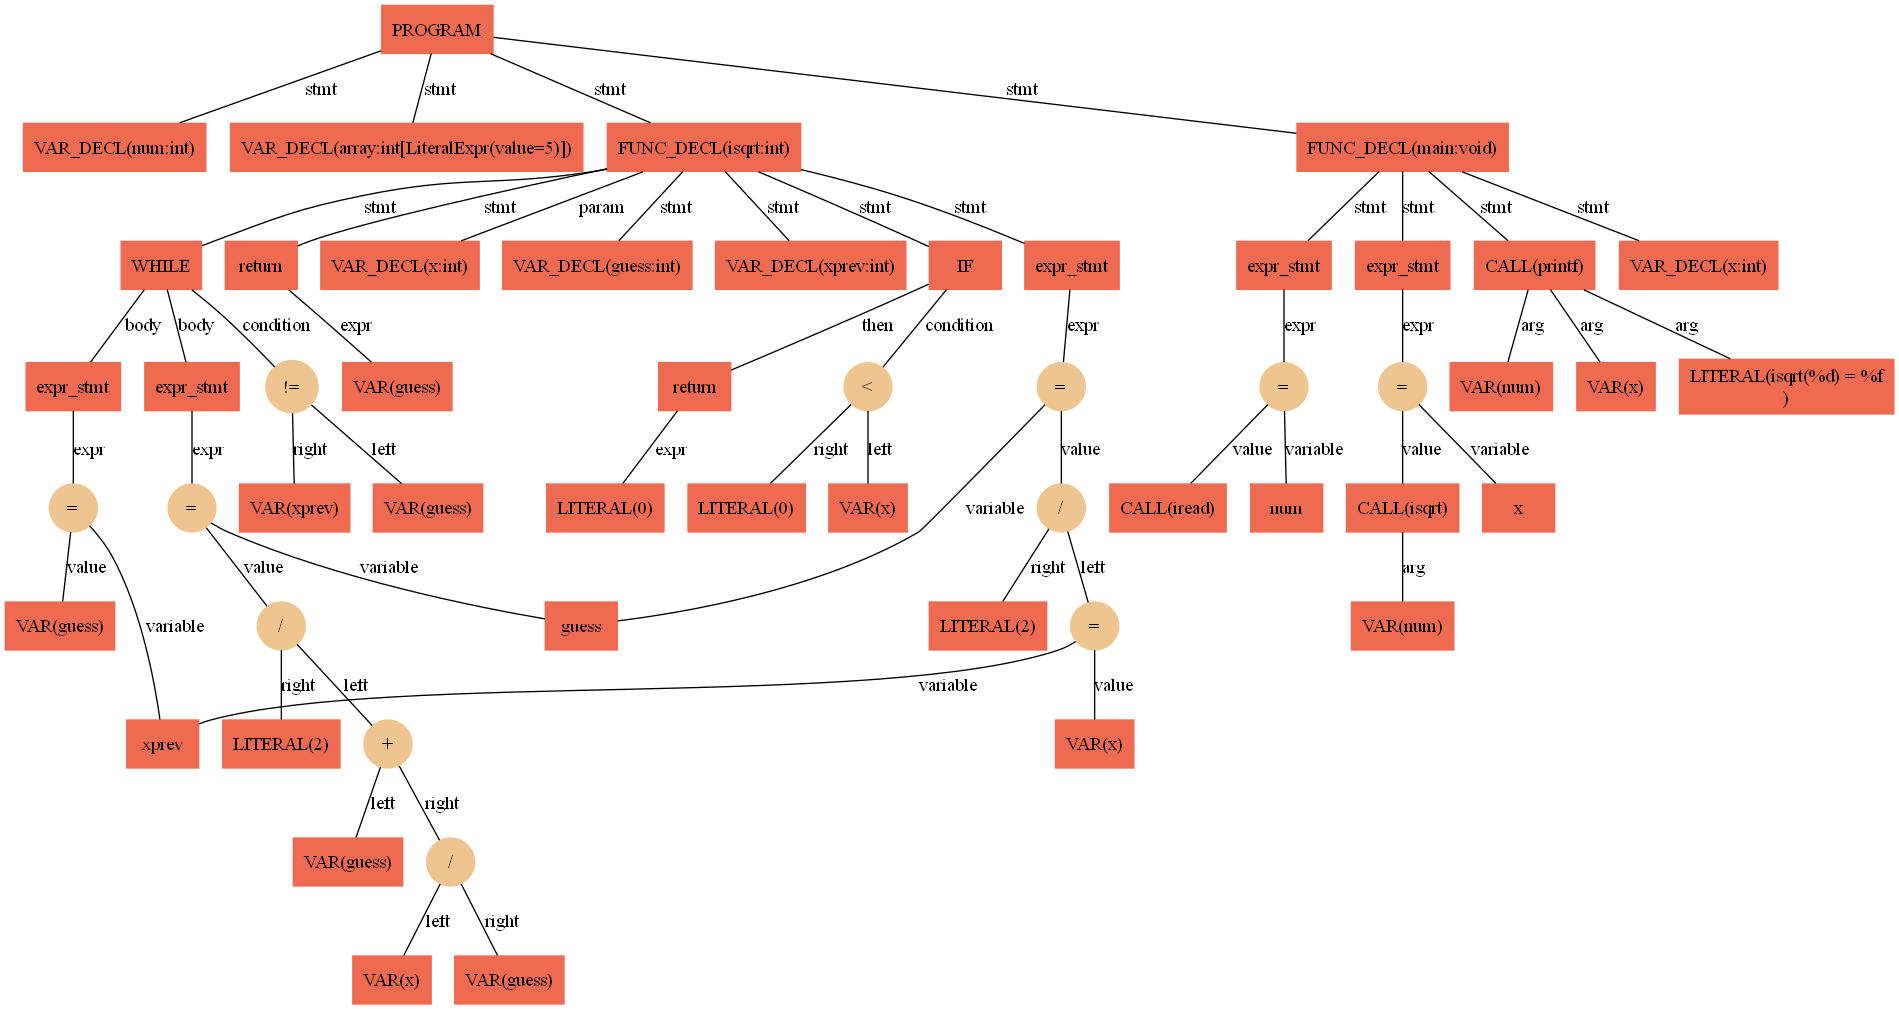
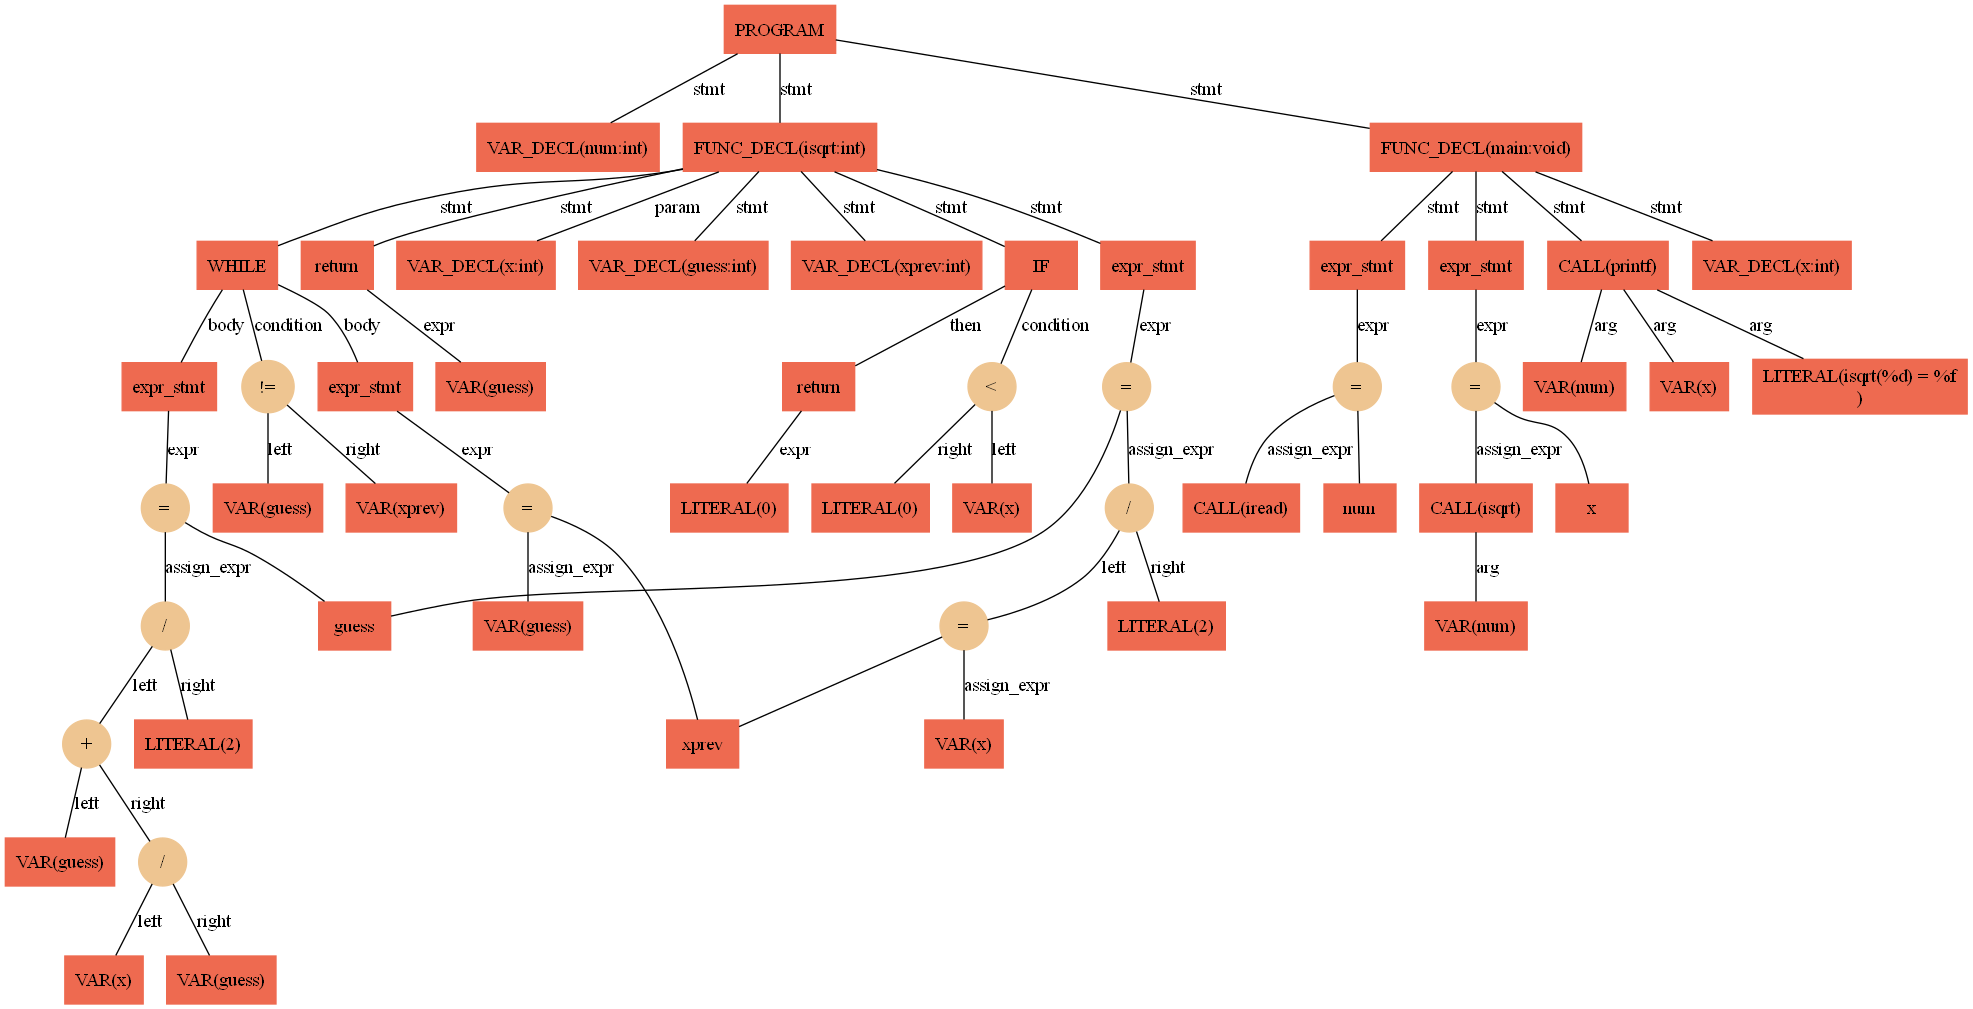
cambios

diff --git a/Python/Compiladores/Compilador_Minic++/MiniCppCaster.py b/Python/Compiladores/Compilador_Minic++/MiniCppCaster.py
@@ -114,7 +114,7 @@ class CallExpr(Expression):
 
 @dataclass
 class VarAssignmentExpr(Expression):
-    ident : str
+    ident : Expression
     expr  : Expression
 
 @dataclass
@@ -221,6 +221,19 @@ class MakeDot(Visitor):
 
     # Metodo
     def visit(self, n: Program):
+        '''
+        1.
+            - Crear tabla de simbolos global   
+            - Agregar todas las funciones o variables incorporadas al lenguaje:
+                scanf/printf
+            - Despues de recorer el AST validar que exista una funcon main
+        2.
+            Guardar la tabla de simbolos actual
+        
+        3. 
+            FuncDeclStmt
+            -Agregar el nombre de la funcion a la TS actual
+        '''
         name = self.name()  # Crea un nombre para el nodo del programa
         self.dot.node(name, label='PROGRAM')  # Agrega el nodo al gráfico
         for stmt in n.stmts:  # Itera sobre las declaraciones en el programa
@@ -233,10 +246,81 @@ class MakeDot(Visitor):
         self.dot.node(name, label=f'CONST({n.value})')
         return name
 
+    # Método para visitar declaraciones de clases
+    def visit(self, n: ClassDecl):
+        name = self.name()
+        self.dot.node(name, label=f'CLASS({n.ident})')
+        for stmt in n.var_decl_list:
+            self.dot.edge(name, stmt.accept(self), label='var_decl')
+        return name
+
+    # Método para visitar declaraciones de funciones
+    def visit(self, n: FuncDeclStmt):
+        name = self.name()
+        self.dot.node(name, label=f'FUNC_DECL({n.ident}:{n.return_type})')
+        
+        for param in n.params:
+            self.dot.edge(name, param.accept(self), label='param')
+        for stmt in n.compound_stmt:
+            self.dot.edge(name, stmt.accept(self), label='stmt')
+        return name
+    
+    # Método para visitar declaraciones de variables
+    def visit(self, n: VarDeclStmt):
+        name = self.name()
+        if n.size:
+            self.dot.node(name, label=f'VAR_DECL({n.ident}:{n.type_spec}[{n.size}])')
+        else:
+            self.dot.node(name, label=f'VAR_DECL({n.ident}:{n.type_spec})')
+            if n.expr:
+                self.dot.edge(name, n.expr.accept(self), label='init')
+        return name    
+    
     # Método para visitar variables
     def visit(self, n: VarExpr):
         name = self.name()
         self.dot.node(name, label=f'VAR({n.ident})')
+        return name
+
+    # Método para visitar asignaciones de variables
+    def visit(self, n: VarAssignmentExpr):
+        name = self.name()
+        self.dot.node(name, label='=', shape='circle', color='burlywood2')
+        self.dot.edge(name, n.ident.accept(self))
+        self.dot.edge(name, n.expr.accept(self), label='assign_expr')
+        return name
+
+
+    # Método para visitar un IfStmt
+    def visit(self, n: IfStmt):
+        name = self.name()
+        self.dot.node(name, label='IF')
+        self.dot.edge(name, n.expr.accept(self), label='condition')
+        self.dot.edge(name, n.then.accept(self), label='then')
+        if n.else_:
+            self.dot.edge(name, n.else_.accept(self), label='else')
+        return name
+
+    # Método para visitar ciclos While
+    def visit(self, n: WhileStmt):
+        name = self.name()
+        self.dot.node(name, label='WHILE')
+        for body_stmt in n.then:  # Asumiendo que stmt.then es una lista de declaraciones
+            self.dot.edge(name, body_stmt.accept(self), label='body')
+        self.dot.edge(name, n.expr.accept(self), label='condition')
+        return name
+
+    # Método para visitar expresiones de entrada/salida
+    def visit(self, n: IOFuncExpr):
+        name = self.name()
+        if n.ident == 'printf':
+            self.dot.node(name, label='PRINTF')
+        elif n.ident == 'scanf':
+            self.dot.node(name, label='SCANF')
+        
+        for arg in n.args:
+            self.dot.edge(name, arg.accept(self), label='arg')
+        
         return name
 
     # Método para visitar llamadas a funciones
@@ -255,81 +339,11 @@ class MakeDot(Visitor):
         self.dot.edge(name, n.right.accept(self), label='right')
         return name
 
-    # Método para visitar declaraciones de variables
-    def visit(self, n: VarDeclStmt):
-        name = self.name()
-        if n.size:
-            self.dot.node(name, label=f'VAR_DECL({n.ident}:{n.type_spec}[{n.size}])')
-        else:
-            self.dot.node(name, label=f'VAR_DECL({n.ident}:{n.type_spec})')
-            if n.expr:
-                self.dot.edge(name, n.expr.accept(self), label='init')
-        return name
-        
-
-    # Método para visitar declaraciones de funciones
-    def visit(self, n: FuncDeclStmt):
-        name = self.name()
-        self.dot.node(name, label=f'FUNC_DECL({n.ident}:{n.return_type})')
-        for param in n.params:
-            self.dot.edge(name, param.accept(self), label='param')
-        for stmt in n.compound_stmt:
-            self.dot.edge(name, stmt.accept(self), label='stmt')
-        return name
-
-    # Método para visitar declaraciones de clases
-    def visit(self, n: ClassDecl):
-        name = self.name()
-        self.dot.node(name, label=f'CLASS({n.ident})')
-        for stmt in n.var_decl_list:
-            self.dot.edge(name, stmt.accept(self), label='var_decl')
-        return name
-
     # Método para visitar expresiones unarias
     def visit(self, n: UnaryOpExpr):
         name = self.name()
         self.dot.node(name, label=f'{n.opr}', shape='circle', color='burlywood2')
         self.dot.edge(name, n.expr.accept(self), label='expr')
-        return name
-
-    # Método para visitar asignaciones de variables
-    def visit(self, n: VarAssignmentExpr):
-        name = self.name()
-        self.dot.node(name, label='=', shape='circle', color='burlywood2')
-        self.dot.edge(name, n.ident, label='variable')
-        self.dot.edge(name, n.expr.accept(self), label='value')
-        return name
-
-    # Método para visitar un IfStmt
-    def visit(self, n: IfStmt):
-        name = self.name()
-        self.dot.node(name, label='IF')
-        self.dot.edge(name, n.expr.accept(self), label='condition')
-        self.dot.edge(name, n.then.accept(self), label='then')
-        if n.else_:
-            self.dot.edge(name, n.else_.accept(self), label='else')
-        return name
-
-    # Método para visitar ciclos While
-    def visit(self, n: WhileStmt):
-        name = self.name()
-        self.dot.node(name, label='WHILE')
-        self.dot.edge(name, n.expr.accept(self), label='condition')
-        for body_stmt in n.then:  # Asumiendo que stmt.then es una lista de declaraciones
-            self.dot.edge(name, body_stmt.accept(self), label='body')
-        return name
-
-    # Método para visitar expresiones de entrada/salida
-    def visit(self, n: IOFuncExpr):
-        name = self.name()
-        if n.ident == 'printf':
-            self.dot.node(name, label='PRINTF')
-        elif n.ident == 'scanf':
-            self.dot.node(name, label='SCANF')
-        
-        for arg in n.args:
-            self.dot.edge(name, arg.accept(self), label='arg')
-        
         return name
 
     # Método para visitar expresiones literales
@@ -347,6 +361,6 @@ class MakeDot(Visitor):
 
     def visit(self, n: ExprStmt):
         name = f'expr_stmt_{id(n.expr)}'
-        self.dot.node(name, 'expr_stmt')  # Asigna un nombre a tu nodo
+        self.dot.node(name, 'expr_stmt') 
         self.dot.edge(name, n.expr.accept(self), label='expr')  # Suponiendo que `stmt.expr` es una expresión válida
         return name

diff --git a/Python/Compiladores/Compilador_Minic++/MiniCppParser.py b/Python/Compiladores/Compilador_Minic++/MiniCppParser.py
@@ -144,17 +144,13 @@ class Parser(sly.Parser):
     def return_stmt(self, p):
         return ReturnStmt(expr = p.expr)
 
-    #@_("RETURN ';'")
-    #def return_stmt(self, p):
-    #    return ReturnStmt()
-
     @_("BREAK ';'", "CONTINUE ';'")
     def break_stmt(self, p):
         return BreakStmt() if p[0] == 'BREAK' else ContinueStmt()
 
     @_("IDENT '=' expr")
     def expr(self, p):
-        return VarAssignmentExpr(p.IDENT, p.expr)
+        return VarAssignmentExpr(p[0], p[2])
 
     @_("IDENT '[' expr ']' '=' expr")
     def expr(self, p):
@@ -243,6 +239,7 @@ def parse(source):
 def gen_ast(data,name):
     ast = parse(data)
     dot_visitor = MakeDot()
+    print(ast)
     ast.accept(dot_visitor)
     #Guardamos en formato png
     dot_visitor.dot.render(filename=f'{name}_ast', format='png', cleanup=True)
@@ -250,5 +247,5 @@ def gen_ast(data,name):
 
 if __name__ == '__main__':
     data = open("isqrt.mcc", encoding='utf-8').read()
-    gen_ast(data)
+    gen_ast(data,"isqrt")
 
